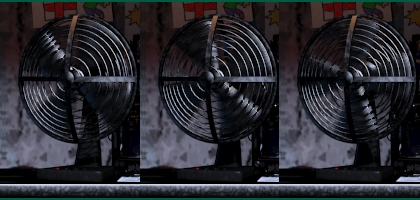
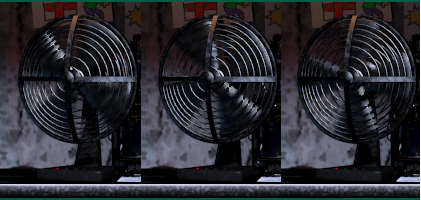
add enum class

diff --git a/src/gameplay.cpp b/src/gameplay.cpp
@@ -4,11 +4,14 @@
 using namespace std;
 void gameplay::import_variable(){
     x = 400.0f;
-    y = 3.0f;
-    fx = 500.0f;
-    fy = 290.0f;
+    y = 3.5f;
+    fx = 600.0f;
+    fy = 311.0f;
     rfx = 0;
     rfy = 10;
+    wf = 231;
+    hf = 180;
+    coef = 1;
     frameCount = 0;
     frameFan = 0;
     cameraX = 0.0f;
@@ -23,8 +26,8 @@ void gameplay::rendering(){
     texture_rect = {x, y, 800.0f, 721.0f};
     dest = {0, 0, (float)GetScreenWidth(), (float)GetScreenHeight()};
     fan_origin = {0.0f, 0.0f};
-    fan_rect = {rfx, rfy, 138.0f, 180.0f};
-    fan_dest = {fx, fy, 250, 200};
+    fan_rect = {rfx, rfy, 140.0f, 180.0f};
+    fan_dest = {fx, fy, wf, hf};
     if(frameCount > 4){
         frameFan++;
         frameCount = 0;
@@ -32,18 +35,34 @@ void gameplay::rendering(){
     if(frameFan >= 3){
         frameFan = 0;
     }
-    rfx = fan_rect.width * frameFan + (2 + (frameCount * 2));
+    rfx = fan_rect.width * frameFan;
     DrawTexturePro(office, texture_rect, dest,  origin, 0.0f,  WHITE);
     DrawTexturePro(fans, fan_rect, fan_dest,  fan_origin, 0.0f,  WHITE);
 }
 void gameplay::move_camera(){
+    /*
+    fx = GetMouseX();
+    fy = GetMouseY();
+     */
+    if (IsMouseButtonPressed(MOUSE_BUTTON_LEFT)){
+        rfx += coef;
+    }
+    if (IsMouseButtonPressed(MOUSE_BUTTON_RIGHT)){
+        rfy += coef;
+    }
+       
     if (IsKeyDown(KEY_A) && x > 0){
         x -= 20;
-        fx += 20;
+        fx += 32;
     }
     if (IsKeyDown(KEY_D) && x < 1600 - 800){
         x += 20;
-        fx -= 20;
+        fx -= 32;
     }
+
+    if (IsKeyPressed(KEY_S)){
+        coef = -coef;
+    }
+        
     UpdateMusicStream(fan);
 }

diff --git a/src/main.cpp b/src/main.cpp
@@ -4,10 +4,21 @@
 #include "sixam.hpp"
 #include "screamer.hpp"
 #include "raylib.h"
+#include <iostream>
 
 using namespace std;
 
+enum class scen{
+    menu,
+    gameplay,
+    camera,
+    screamer,
+    sixam
+};
+
 int main(int argc, char *argv[]){
+    //Здравствуйте! Если вы хотите протестировать код в файле menu.cpp, просто замените scene::gameplay на scene::menu (для Demian).
+    scen currentScen = scen::gameplay;
     float w = GetScreenWidth(), h = GetScreenHeight();
     SetConfigFlags(FLAG_FULLSCREEN_MODE);
     InitWindow(w, h, "FNaF");
@@ -19,12 +30,17 @@ int main(int argc, char *argv[]){
         if(IsKeyPressed(KEY_ESCAPE)){
             break;
         }
+        if (currentScen == scen::gameplay){
         game1.move_camera();
+        }
     BeginDrawing();
             ClearBackground({0, 0, 0, 255});
+            if (currentScen == scen::gameplay){
             game1.rendering();
+            }
     EndDrawing();
     }
+    cout << game1.fx << "\n" << game1.fy << "\n" << game1.wf << "\n" << game1.hf;
     CloseAudioDevice();
     CloseWindow();
     return 0;

diff --git a/src/gameplay.hpp b/src/gameplay.hpp
@@ -3,9 +3,9 @@
 #include "raylib.h"
 class gameplay {
     public:
-    int frameCount, frameFan;
+    int frameCount, frameFan, coef;
     Texture2D office, fans;
-    float x, y, cameraX, fx, fy, rfx, rfy;
+    float x, y, cameraX, fx, fy, rfx, rfy, wf, hf;
     Vector2 origin, fan_origin;
     Rectangle texture_rect, dest, fan_rect, fan_dest;
     Music fan;

diff --git a/src/camera.hpp b/src/camera.hpp
@@ -1,7 +1,13 @@
 #ifndef CAMERA_HPP
 #define CAMERA_HPP
+#include "raylib.h"
+using namespace std;
 class camera {
     public:
+    Texture2D room;
+    int current_room;
+    void rendering();
+    void switch_room();
 
 };
 #endif

diff --git a/src/camera.cpp b/src/camera.cpp
@@ -1,1 +1,5 @@
 #include "camera.hpp"
+
+void camera::rendering(){
+    
+}
